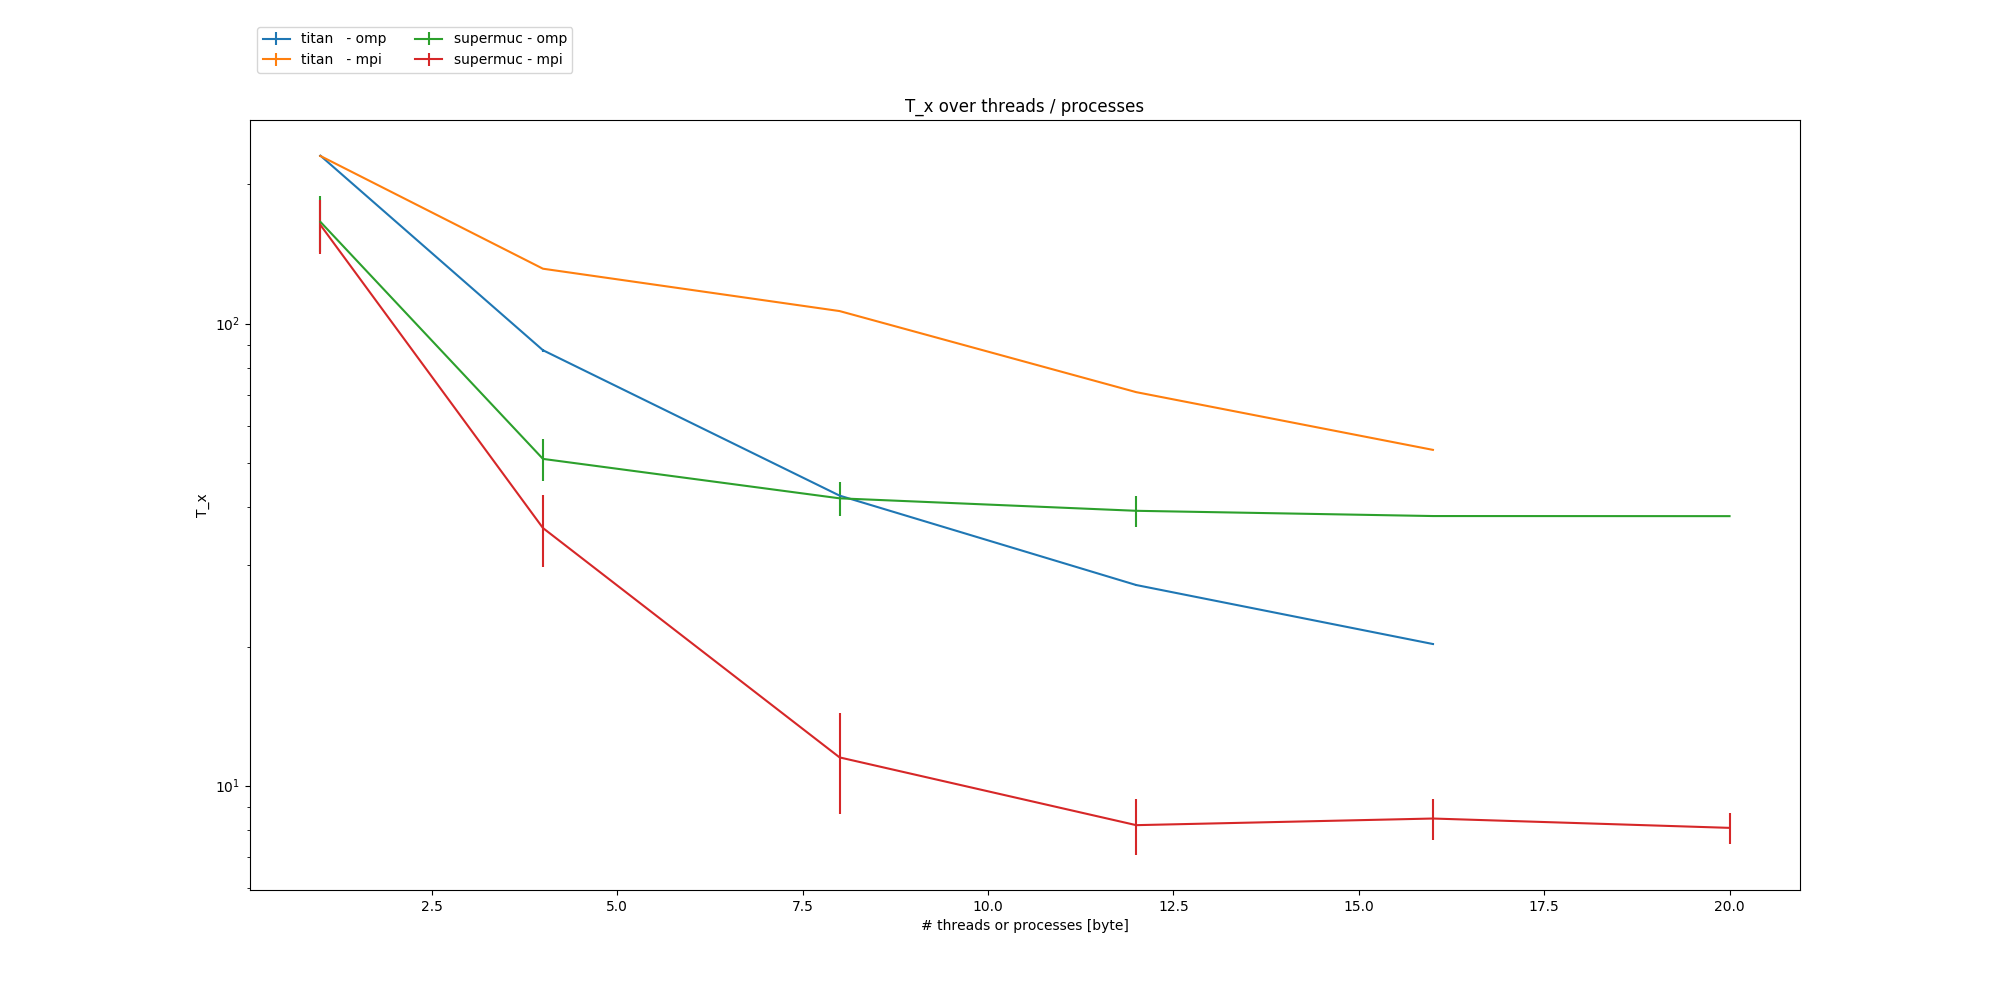
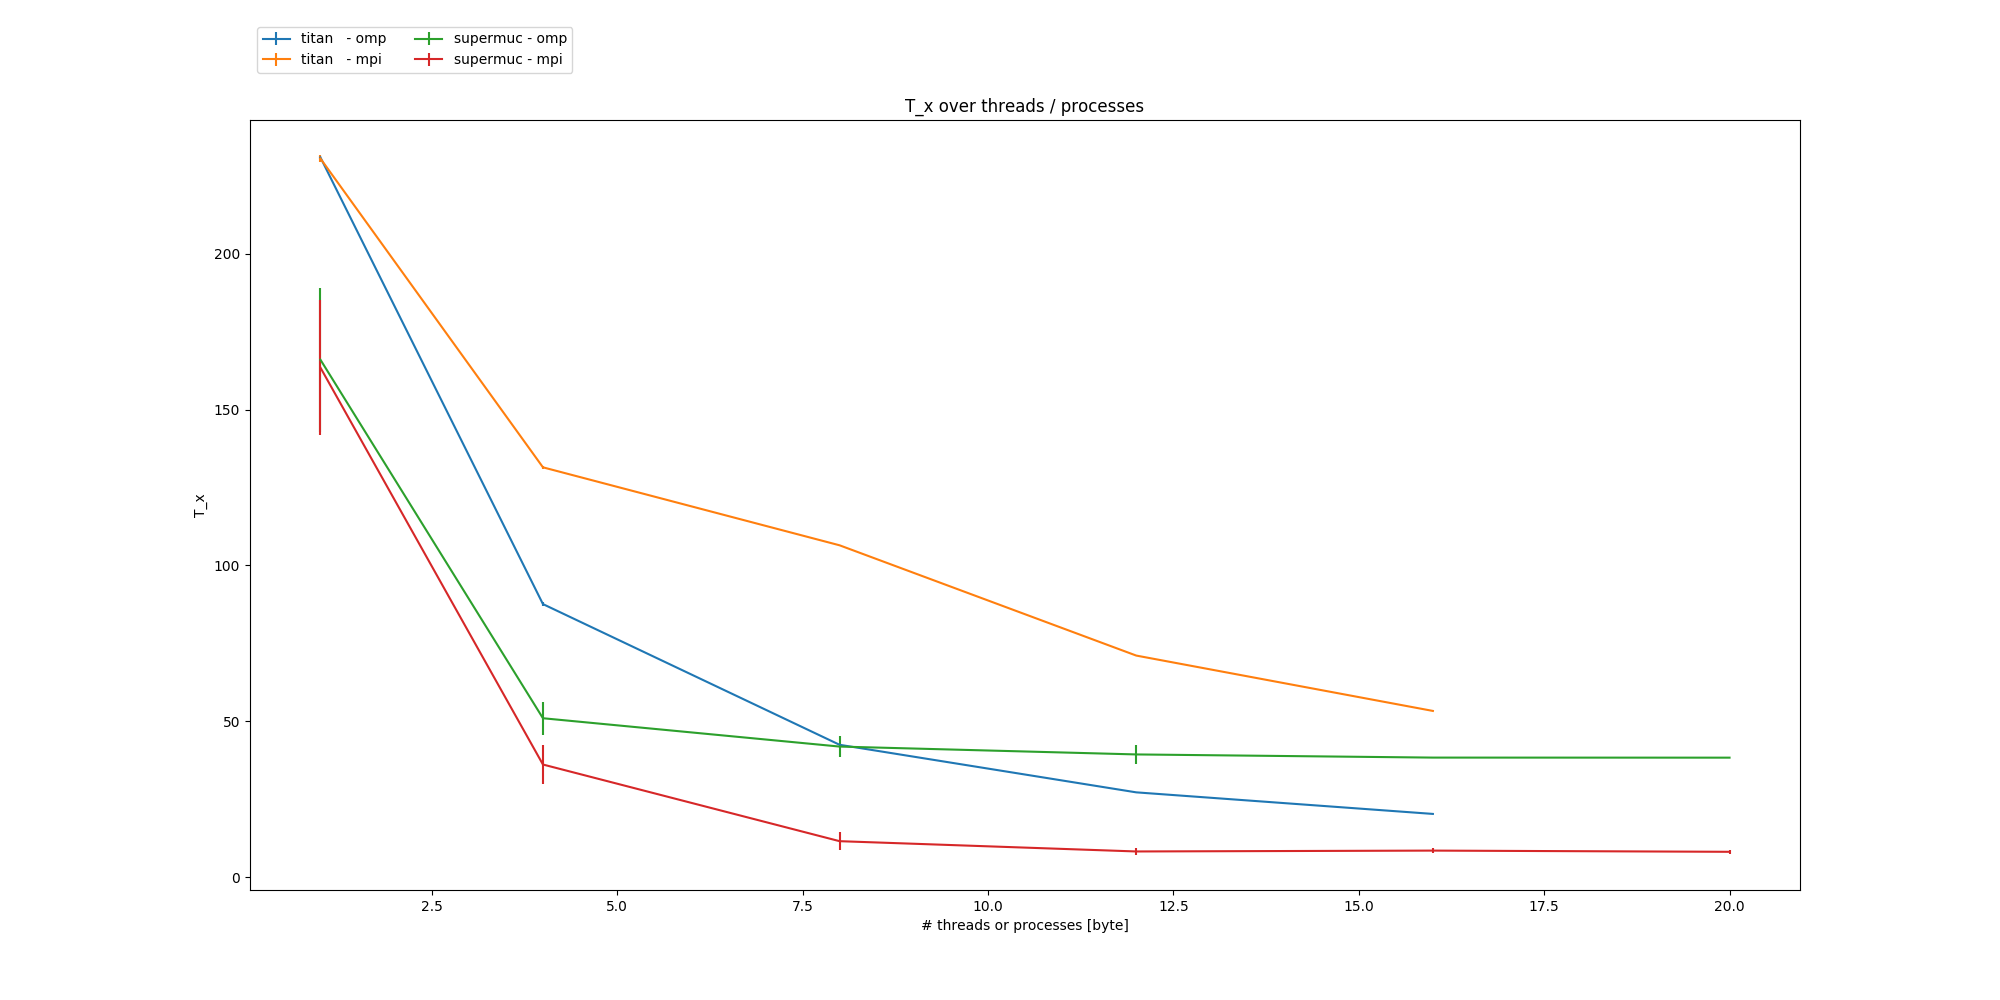
fig updates and splits

diff --git a/analysis/bin/plot_io.py b/analysis/bin/plot_io.py
@@ -11,16 +11,19 @@ import pprint
 import matplotlib.pyplot as plt
 import numpy             as np
 
-import radical.analytics as ra
-
-PWD = os.path.dirname(os.path.dirname(__file__))
-dat = '%s/data' % PWD
+PWD     = os.path.dirname(os.path.dirname(__file__))
+dat     = '%s/data' % PWD
+plot_by = ['all', 'hosts', 'fss']
 
 # ------------------------------------------------------------------------------
 #
 def main():
 
     data    = dict()
+    hosts   = set()
+    modes   = set()
+    fss     = set()
+
     with open('%s/io.dat' % dat, 'r') as fin:
         for line in fin.readlines():
             host, fs, mode, buf, n, t = line.split()
@@ -36,41 +39,109 @@ def main():
 
             data[host][fs][mode][buf].append(t)
 
+            hosts.add(host)
+            modes.add(mode)
+            fss.add(fs)
+
+
   # pprint.pprint(data)
 
     formats = {'w0' : '--o',
-               'r0' : '--*',
+               'r0' : '-*',
                'r1' : '-^',
                'r2' : '-v'}
 
+    # --------------------------------------------------------------------------
+    def add_to_plt(plt, fmt, datasets):
+        x = list()
+        y = list()
+        e = list()
+        for buf in sorted(datasets.keys()):
+            tmp = np.array(datasets[buf])
+            x.append(buf)
+            y.append(tmp.mean())
+            e.append(tmp.std())
+        plt.errorbar(x, y, yerr=e, fmt=fmt, capthick=20)
+    # --------------------------------------------------------------------------
+    if 'hosts' in plot_by:
+        for host in hosts:
 
-    labels = list()
-    plt.figure(figsize=(20,10))
-    for host in data:
-        for fs in data[host]:
-            for mode in ['w0', 'r0', 'r1', 'r2']:
-                label = '%s - %s - %s' % (host, fs, mode)
-                labels.append(label)
-                x = list()
-                y = list()
-                e = list()
-                for buf in sorted(data[host][fs][mode].keys()):
-                    tmp = np.array(data[host][fs][mode][buf])
-                  # print label, tmp
-                    x.append(buf)
-                    y.append(tmp.mean())
-                    e.append(tmp.std())
-                plt.errorbar(x, y, yerr=e, fmt=formats[mode], capthick=20)
-              # print
-              # print label
+            labels     = list()
+            label_cols = 0
+            plt.figure(figsize=(20,10))
+            for fs in fss:
+                add_label_col = False
+                for mode in ['w0', 'r0', 'r1', 'r2']:
+                    bufs = data.get(host, {}).get(fs, {}).get(mode)
+                    if not bufs:
+                        continue
+                    labels.append('%5s - %s' % (fs, mode))
+                    add_to_plt(plt, formats[mode], data[host][fs][mode])
+                    add_label_col = True
+                if add_label_col: label_cols += 1
+            plt.xlabel('bufsize [byte]')
+            plt.ylabel('T_x')
+            plt.yscale('log')
+            plt.title ('%s: T_x over buf sizes and file systems' % host)
+            plt.legend(labels, ncol=label_cols, loc='upper left', bbox_to_anchor=(0,1.13))
+            plt.savefig('%s/figures/io_host_%s.png' % (PWD, host))
+            print 'saved %s/figures/io_host_%s.png' % (PWD, host)
 
-    plt.xlabel('bufsize [byte]')
-    plt.ylabel('T_x')
-    plt.yscale('log')
-    plt.title ('T_x over buf sizes and file systems')
-    plt.legend(labels, ncol=5, loc='upper left', bbox_to_anchor=(0,1.13))
-    plt.savefig('%s/figures/io.png' % PWD)
-    plt.show()
+    # --------------------------------------------------------------------------
+    if 'fss' in plot_by:
+        for fs in fss:
+
+            labels     = list()
+            label_cols = 0
+            plt.figure(figsize=(20,10))
+            for host in hosts:
+                add_label_col = False
+                for mode in ['w0', 'r0', 'r1', 'r2']:
+                    bufs = data.get(host, {}).get(fs, {}).get(mode)
+                    if not bufs:
+                        continue
+                    labels.append('%8s - %s' % (host, mode))
+                    add_to_plt(plt, formats[mode], data[host][fs][mode])
+                    add_label_col = True
+                if add_label_col: label_cols += 1
+            plt.xlabel('bufsize [byte]')
+            plt.ylabel('T_x')
+            plt.yscale('log')
+            plt.title ('%s: T_x over buf sizes and file systems' % fs)
+            plt.legend(labels, ncol=label_cols, loc='upper left', bbox_to_anchor=(0,1.13))
+            plt.savefig('%s/figures/io_fs_%s.png' % (PWD, fs))
+            print 'saved %s/figures/io_fs_%s.png' % (PWD, fs)
+
+    # --------------------------------------------------------------------------
+    if 'all' in plot_by:
+
+        labels = list()
+        plt.figure(figsize=(20,10))
+        for host in data:
+            for fs in data[host]:
+                for mode in ['w0', 'r0', 'r1', 'r2']:
+                    label = '%s - %s - %s' % (host, fs, mode)
+                    labels.append(label)
+                    x = list()
+                    y = list()
+                    e = list()
+                    for buf in sorted(data[host][fs][mode].keys()):
+                        tmp = np.array(data[host][fs][mode][buf])
+                      # print label, tmp
+                        x.append(buf)
+                        y.append(tmp.mean())
+                        e.append(tmp.std())
+                    plt.errorbar(x, y, yerr=e, fmt=formats[mode], capthick=20)
+                  # print
+                  # print label
+     
+        plt.xlabel('bufsize [byte]')
+        plt.ylabel('T_x')
+        plt.yscale('log')
+        plt.title ('T_x over buf sizes and file systems')
+        plt.legend(labels, ncol=5, loc='upper left', bbox_to_anchor=(0,1.13))
+        plt.savefig('%s/figures/io.png' % PWD)
+        print 'saved %s/figures/io.png' % PWD
 
 
 # ------------------------------------------------------------------------------

diff --git a/analysis/bin/plot_omp.py b/analysis/bin/plot_omp.py
@@ -64,7 +64,7 @@ def main():
 
     plt.xlabel('# threads or processes [byte]')
     plt.ylabel('T_x')
-    plt.yscale('log')
+  # plt.yscale('log')
     plt.title ('T_x over threads / processes')
     plt.legend(labels, ncol=2, loc='upper left', bbox_to_anchor=(0,1.13))
     plt.savefig('%s/figures/omp.png' % PWD)
